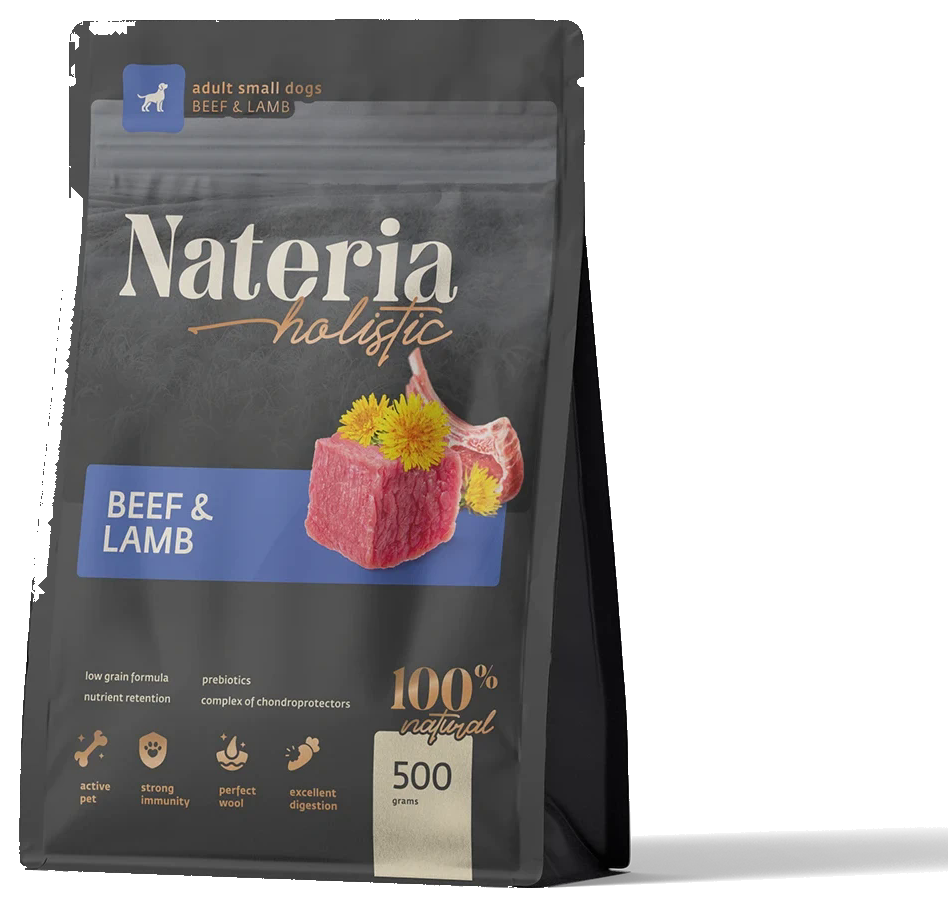
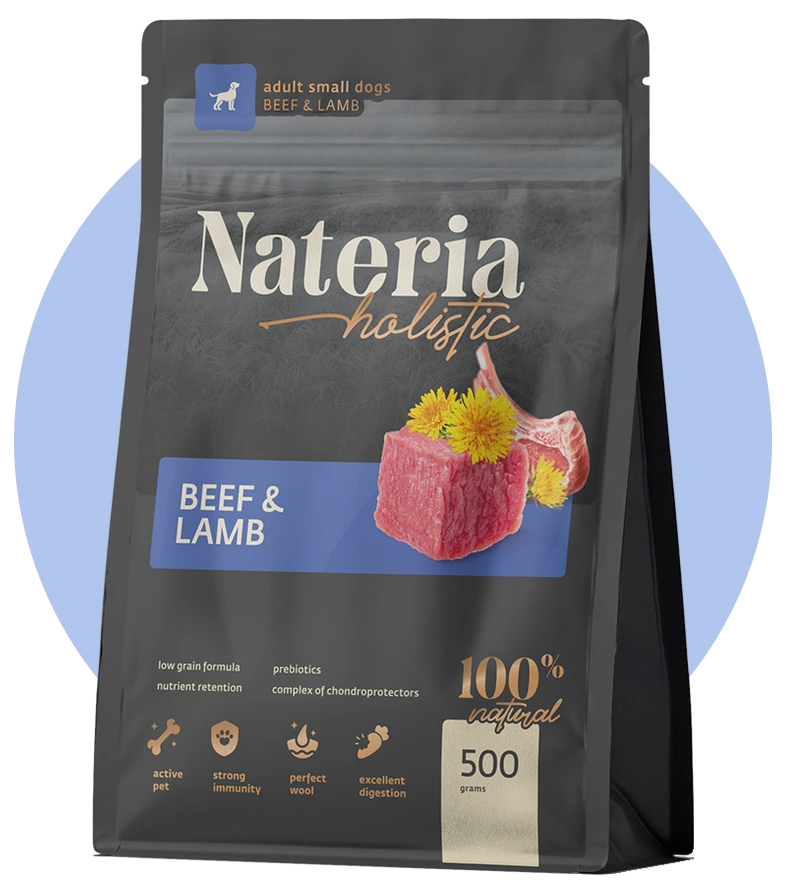
Fix: shadow-free Holistic packs on baked circle matching Diet layout, hero without shadow, blog card outline, messenger buttons without outline

diff --git a/src/data.js b/src/data.js
@@ -38,7 +38,7 @@ export const products = [
     line: 'Nateria', taste: 'индейка и тыква',
     name: 'Сухой корм для взрослых кошек с индейкой и тыквой',
     short: 'корм для взрослых кошек с индейкой и тыквой',
-    bg: 'bg-white bg-[radial-gradient(circle_closest-side_at_50%_50%,#f6cdac_0_82%,transparent_82%)]',
+    bg: 'bg-white',
     weights: [{ w: '400 г', price: 625, gtin: '4650372220504' }, { w: '1,5 кг', price: 1937, gtin: '4650372220498' }, { w: '10 кг', price: 9914, gtin: '4650372220160' }],
     text: 'Повседневный рацион для взрослых кошек: дегидрированное мясо индейки, рис и тыква. Полнорационный сбалансированный корм.',
     more: 'Подходит для ежедневного кормления взрослых кошек любой породы. Переводите питомца на новый корм постепенно, за 7–10 дней, подмешивая его к привычному.',
@@ -53,7 +53,7 @@ export const products = [
     line: 'Nateria', taste: 'индейка и розмарин',
     name: 'Сухой корм для котят с индейкой и розмарином',
     short: 'корм для котят с индейкой и розмарином',
-    bg: 'bg-white bg-[radial-gradient(circle_closest-side_at_50%_50%,#a5d8d1_0_82%,transparent_82%)]',
+    bg: 'bg-white',
     weights: [{ w: '400 г', price: 632, gtin: '4650372220481' }, { w: '1,5 кг', price: 1919, gtin: '4650372220474' }, { w: '10 кг', price: 9816, gtin: '4650372220177' }],
     text: 'Рецепт для котят в период роста: больше мясных ингредиентов и энергии, чем во взрослых рационах.',
     more: 'Котятам нужно больше белка и энергии на килограмм веса, чем взрослым кошкам. Порцию считайте по таблице на упаковке и корректируйте по весу котёнка каждые 2–3 недели.',
@@ -68,7 +68,7 @@ export const products = [
     line: 'Nateria', taste: 'индейка с ягнёнком',
     name: 'Сухой корм для стерилизованных кошек с индейкой и ягнёнком. Оптимальный вес',
     short: 'корм для стерилизованных кошек, оптимальный вес',
-    bg: 'bg-white bg-[radial-gradient(circle_closest-side_at_50%_50%,#edb3ca_0_82%,transparent_82%)]',
+    bg: 'bg-white',
     weights: [{ w: '400 г', price: 609, gtin: '4650372220672' }, { w: '1,5 кг', price: 1842, gtin: '4650372220726' }, { w: '10 кг', price: 9394, gtin: '4650372220733' }],
     text: 'Рецепт для кошек после стерилизации и кастрации с L-карнитином и пониженным содержанием жира — помогает контролировать вес.',
     more: 'После стерилизации энергии кошке обычно нужно меньше, а аппетит часто растёт. Этот рацион учитывает изменившийся обмен веществ. Следите за фигурой кошки и корректируйте порцию, если вес уходит от нормы.',
@@ -83,7 +83,7 @@ export const products = [
     line: 'Nateria', taste: 'рыба и клюква',
     name: 'Сухой корм для стерилизованных кошек с рыбой и клюквой',
     short: 'корм для стерилизованных кошек с рыбой и клюквой',
-    bg: 'bg-white bg-[radial-gradient(circle_closest-side_at_50%_50%,#a1d9df_0_82%,transparent_82%)]',
+    bg: 'bg-white',
     weights: [{ w: '400 г', price: 618, gtin: '4650372220443' }, { w: '1,5 кг', price: 1871, gtin: '4650372220436' }, { w: '10 кг', price: 9557, gtin: '4650372220719' }],
     text: 'Рыбный рецепт для стерилизованных кошек с клюквой, L-карнитином и пониженным содержанием жира.',
     more: 'Для кошек, которым не подходит рецепт с мясом птицы или просто больше нравится вкус рыбы. Состав рассчитан на тот же контроль веса, что и у рецепта с индейкой и ягнёнком.',
@@ -158,7 +158,7 @@ export const products = [
     line: 'Nateria', taste: 'индейка',
     name: 'Сухой корм для щенков с индейкой',
     short: 'корм для щенков с индейкой',
-    bg: 'bg-white bg-[radial-gradient(circle_closest-side_at_50%_50%,#f9c5c5_0_82%,transparent_82%)]',
+    bg: 'bg-white',
     weights: [{ w: '0,5 кг', price: 605, gtin: '4650372220689' }, { w: '2 кг', price: 2013, gtin: '4650372220696' }, { w: '5 кг', price: 3861, gtin: '4650372220702' }],
     text: 'Рецепт для щенков в период роста: больше мясных ингредиентов и энергии, чем во взрослых рационах.',
     more: 'Щенкам нужно больше белка и энергии для роста. Кормите чаще и небольшими порциями: до 6 месяцев — 3–4 раза в день, потом 2 раза.',
@@ -173,7 +173,7 @@ export const products = [
     line: 'Nateria', taste: 'говядина с ягнёнком',
     name: 'Сухой корм для взрослых собак мелких пород с говядиной и ягнёнком',
     short: 'корм для собак мелких пород с говядиной и ягнёнком',
-    bg: 'bg-white bg-[radial-gradient(circle_closest-side_at_50%_50%,#b1c5ed_0_82%,transparent_82%)]',
+    bg: 'bg-white',
     weights: [{ w: '0,5 кг', price: 579, gtin: '4650372220658' }, { w: '2 кг', price: 1920, gtin: '4650372220665' }, { w: '10 кг', price: 7497, gtin: '4650372220221' }],
     text: 'Рецепт для мелких пород с дегидрированным мясом говядины и ягнёнка. Полнорационный сбалансированный корм.',
     more: 'Для небольших собак: шпицев, той-терьеров, чихуахуа, йорков и других мелких пород. Маленьким собакам нужно больше энергии на килограмм веса — считайте порцию по таблице на упаковке.',
@@ -188,7 +188,7 @@ export const products = [
     line: 'Nateria', taste: 'индейка с ягнёнком и женьшенем',
     name: 'Сухой корм для взрослых собак крупных и средних пород с индейкой, ягнёнком и женьшенем',
     short: 'корм для крупных и средних пород с индейкой, ягнёнком и женьшенем',
-    bg: 'bg-white bg-[radial-gradient(circle_closest-side_at_50%_50%,#ecb4ad_0_82%,transparent_82%)]',
+    bg: 'bg-white',
     weights: [{ w: '0,5 кг', price: 605, gtin: '4650372220771' }, { w: '2 кг', price: 2013, gtin: '4650372220634' }, { w: '12 кг', price: 9264, gtin: '4650372220641' }],
     text: 'Рецепт для крупных и средних пород с индейкой, ягнёнком и сушёным корнем женьшеня.',
     more: 'Подходит для ежедневного кормления собак крупных и средних пород. Фасовка 12 кг выгоднее за килограмм — удобно для собак с большим весом или нескольких питомцев в доме.',

diff --git a/src/App.jsx b/src/App.jsx
@@ -90,7 +90,7 @@ function MaxIcon({ className }) {
 }
 function MessengerButtons({ className, stack }) {
   // кнопки всегда одной ширины: на телефоне — во всю ширину одна под другой, на компьютере — две равные колонки
-  const c = 'flex h-11 w-full items-center gap-2 rounded-[2px] bg-gray-1 px-4 text-sm font-semibold hover:bg-gray-2'
+  const c = 'flex h-11 w-full items-center gap-2 rounded-[2px] bg-gray-2 px-4 text-sm font-semibold transition hover:bg-gray-3/50'
   return (
     <div className={cn('grid gap-2', !stack && 'sm:w-fit sm:grid-cols-2', className)}>
       <a href={contacts.telegram} target="_blank" rel="noopener nofollow" className={c}><TgIcon className="size-5" /> Написать в Telegram</a>
@@ -298,8 +298,8 @@ function Hero({ nav }) {
           </div>
         </div>
         <div className="pointer-events-none col-start-2 row-span-2 row-start-2 mt-2 flex shrink-0 sm:hidden md:flex items-end justify-center sm:absolute sm:mt-0 sm:inset-x-0 sm:bottom-0 sm:top-0 sm:items-end sm:justify-end sm:pb-0 sm:pr-4 md:pr-6">
-          <img src={img('cat-sterile-turkey-lamb')} {...IMG} alt="Упаковка корма Nateria для стерилизованных кошек" fetchPriority="high" className="relative z-10 h-auto w-[110px] drop-shadow-lg sm:w-[200px] md:w-[240px] xl:w-[320px]" />
-          <img src={img('dog-small-beef-lamb')} {...IMG} alt="Упаковка корма Nateria для собак мелких пород" fetchPriority="high" className="relative z-10 ml-1 h-auto w-[110px] drop-shadow-lg sm:ml-2 sm:w-[200px] md:w-[240px] xl:w-[320px]" />
+          <img src={img('hero-cat-sterile-turkey-lamb')} {...IMG} alt="Упаковка корма Nateria для стерилизованных кошек" fetchPriority="high" className="relative z-10 h-auto w-[110px] sm:w-[200px] md:w-[240px] xl:w-[320px]" />
+          <img src={img('hero-dog-small-beef-lamb')} {...IMG} alt="Упаковка корма Nateria для собак мелких пород" fetchPriority="high" className="relative z-10 ml-1 h-auto w-[110px] sm:ml-2 sm:w-[200px] md:w-[240px] xl:w-[320px]" />
                   </div>
       </div>
       <div className="no-scrollbar mt-3 grid grid-flow-col gap-3 overflow-x-auto md:grid-cols-4">
@@ -506,7 +506,7 @@ function Checks() {
 
 function PostCard({ p, H = 'h3' }) {
   return (
-    <Link to={`blog/${p.slug}/`} className="group flex min-w-[260px] flex-col lg:min-w-0 rounded-[2px] border border-gray-2 bg-white text-left transition hover:shadow-card">
+    <Link to={`blog/${p.slug}/`} className="group flex min-w-[260px] flex-col lg:min-w-0 rounded-[2px] border border-ink bg-white text-left transition">
       <div className={cn('flex h-[150px] items-end justify-center overflow-hidden', p.tone)}>
         <img src={img(p.img)} {...IMG} loading="lazy" alt="" className="h-[130px] w-auto transition group-hover:scale-105" />
       </div>
@@ -735,7 +735,7 @@ function ProductPage({ p }) {
       <Crumbs items={[[k.menu, k.path], [cap(p.short), productPath(p)]]} />
       <article className="wrap grid gap-8 pb-14 pt-5 md:grid-cols-[1fr_1.05fr] lg:gap-14">
         <div className={cn('relative flex h-[360px] items-center justify-center rounded-[2px] p-6 md:h-[520px]', p.bg)}>
-          <img src={img(p.id)} {...IMG} fetchPriority="high" alt={`Упаковка ${p.line} — ${p.short}, ${p.taste}`} className="h-full w-auto object-contain drop-shadow-xl" />
+          <img src={img(p.id)} {...IMG} fetchPriority="high" alt={`Упаковка ${p.line} — ${p.short}, ${p.taste}`} className="h-full w-auto object-contain" />
           <FavBtn faved={st.fav.includes(p.id)} onClick={() => st.toggleFav(p.id)} className="right-4 top-4 sm:right-4 sm:top-4" />
         </div>
         <div className="flex flex-col">
